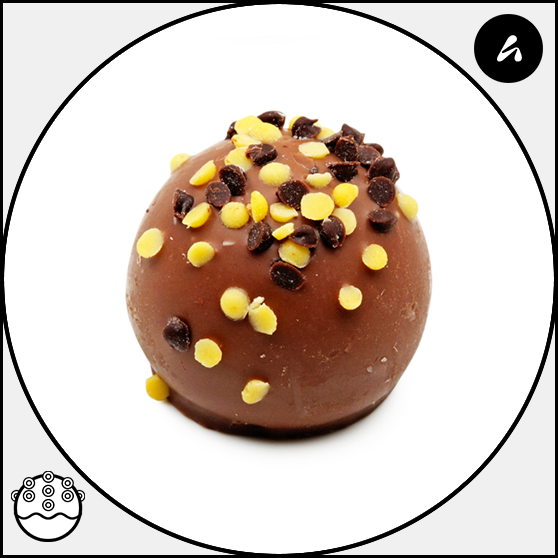
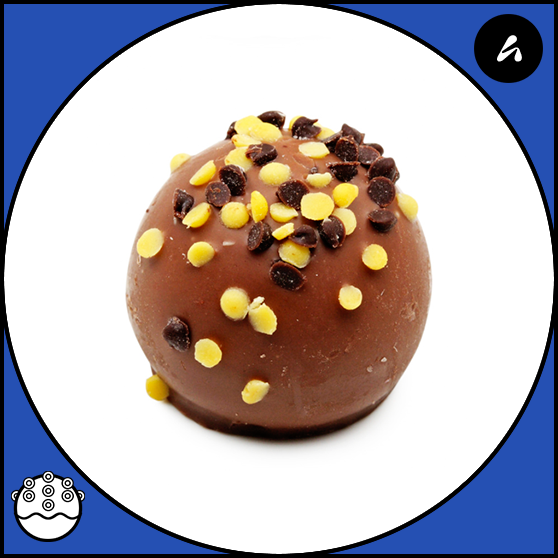
mobile view css

diff --git a/src/App.css b/src/App.css
@@ -27,6 +27,10 @@ body {
   overflow-y: scroll;
 }
 
+#fronttext {
+  background-color: #ffbe00;
+}
+
 #rootdiv {
   display: flex;
 }
@@ -170,7 +174,7 @@ body {
 /* ******************* */
 
 #maindiv {
-  background-color: #f0f0f0;
+  background-color: #304fad;
   height: auto;
 }
 
@@ -201,7 +205,7 @@ body {
 }
 
 #backpart {
-  background-color: rgb(255, 217, 0);
+  background-color: #ffbe00;
   height: 100%;
 }
 .circletopleft {
@@ -717,6 +721,7 @@ svg {
 
   /* Bottom cards */
   #cardDiv {
+    background-color: #304fad;
     display: flex;
   }
 
@@ -1160,9 +1165,13 @@ svg {
 
   #cardimg img {
     width: 100%;
-    height: 10vh;
+    height: 42vh;
     max-width: 100%;
     min-height: 100%;
+  }
+
+  #imgandtext {
+    border: 1px solid black;
   }
 
   #lefteb {
@@ -1378,10 +1387,10 @@ svg {
   .circletopleft {
     background-color: aquamarine;
     border: none;
-    max-width: 100%;
-    min-width: 100%;
+    margin-left: 20.8vw;
     margin-top: 50px;
-    height: 65vw;
+    width: 50vw;
+    height: 50vw;
   }
 
   #circleindex {
@@ -1492,6 +1501,7 @@ svg {
 
   #topflex {
     display: block;
+    height: auto;
   }
 
   #topleftdiv {
@@ -1556,9 +1566,8 @@ svg {
   }
 
   #textimg {
-    margin-top: 20px;
-    max-width: 100%;
-    min-width: 100%;
+    margin-top: 81px;
+    margin-left: 30px;
   }
 
   #topleftcontactdiv {
@@ -1589,14 +1598,15 @@ svg {
     background-color: aquamarine;
     border: none;
     max-width: 100%;
-    min-width: 100%;
     margin-top: 30px;
-    height: 64.5vw;
+    margin-left: 16vw;
+    width: 65vw;
+    height: 56vw;
   }
 
   #topleftimg {
-    height: 90vw;
-    margin-right: 26%;
+    height: 70vw;
+    margin-right: 25%;
   }
 
   #cardDiv {
@@ -1612,14 +1622,12 @@ svg {
   }
 
   #Cards {
-    height: 66vh;
+    height: 55.2vh;
   }
 
   #cardimg img {
     width: 100%;
-    height: 10vh;
-    max-width: 100%;
-    min-height: 100%;
+    height: 48vh;
   }
 
   #lefteb {

diff --git a/src/pages/demo.html b/src/pages/demo.html
@@ -1,0 +1,68 @@
+<!DOCTYPE html>
+<html lang="">
+  <head>
+    <script src="https://ajax.googleapis.com/ajax/libs/jquery/3.4.1/jquery.min.js"></script>
+  </head>
+
+  <style>
+    * {
+      margin: 0;
+      padding: 0;
+      overflow: hidden;
+    }
+
+    .wrapper {
+      background-color: brown;
+      border-radius: 50%;
+      width: 20px;
+      height: 30px;
+      position: relative;
+      top: 30%;
+      left: 30%;
+    }
+
+    .eye {
+      background-color: coral;
+      border-radius: 50%;
+      width: 10px;
+      height: 20px;
+    }
+
+    .face {
+      width: 200px;
+      height: 200px;
+      background-color: chartreuse;
+      /* position: absolute;
+        left: 50%;
+        top: 50%;
+        transform: translate(-50%, -50%); */
+      border-radius: 50%;
+    }
+  </style>
+
+  <body>
+    <div class="face">
+      <div class="wrapper">
+        <div class="eye"></div>
+      </div>
+    </div>
+  </body>
+
+  <script>
+    var currentMousePos = {
+        x: 0,
+        y: 0
+      },
+      wHeight = $(window).height(),
+      wWidth = $(window).width();
+    $(document).mousemove(function(event) {
+      currentMousePos.x = event.pageX;
+      currentMousePos.y = event.pageY;
+      var trans1 = ((currentMousePos.x * 60) / wHeight) * 0.8 + "%", //Image
+        trans2 = ((currentMousePos.y * 60) / wHeight) * 0.8 + "%"; //Image
+      $(".eye").css({
+        "-webkit-transform": "translate(" + trans1 + ", " + trans2 + ")"
+      });
+    });
+  </script>
+</html>

diff --git a/src/pages/index.js b/src/pages/index.js
@@ -9,10 +9,11 @@ import RightBorder from "../components/images/border/border2_right.png";
 function Mainpage() {
   return (
     <>
+      {/* <canvas id="canvas"> */}
       <div id="rootdiv">
-        <span className="lrroot">
+        {/* <span className="lrroot">
           <LeftRightBorder src={LeftBorder}></LeftRightBorder>
-        </span>
+        </span> */}
         <div id="maindiv">
           <Topdiv></Topdiv>
           <Bottomdiv></Bottomdiv>
@@ -21,6 +22,7 @@ function Mainpage() {
           <RBorder src={RightBorder}></RBorder>
         </div>
       </div>
+      {/* </canvas> */}
     </>
   );
 }

diff --git a/public/changeColor.js b/public/changeColor.js
@@ -9,3 +9,10 @@
 //     document.getElementById("facebook").style.background = "#000";
 //   }
 // }
+
+window.onload = () => {
+  var canvas = document.getElementById("canvas");
+  var c = canvas.getContext("2d");
+  c.fillStyle = "grey";
+  c.fillRect(0, 0, canvas.width, canvas.height);
+};
